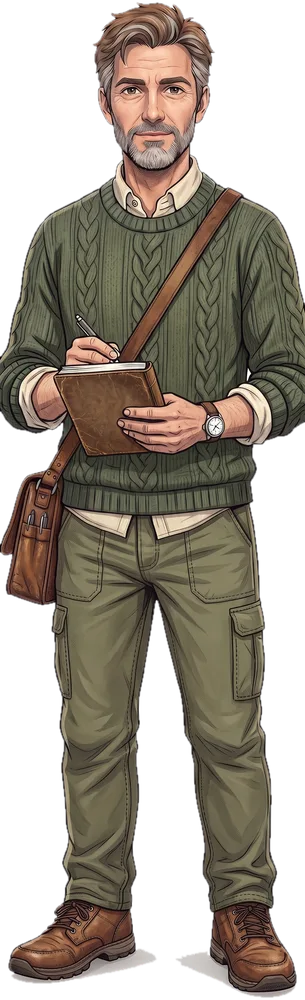
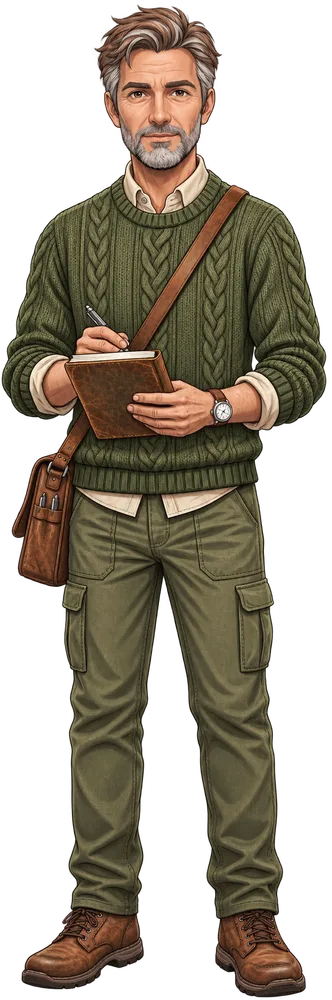
feat(landing): новая фигура Андрея в полный рост

diff --git a/tools/make_fullbody.py b/tools/make_fullbody.py
@@ -12,7 +12,7 @@ SRC = {
     'okulus':    'Детализированный робот с голубым объективом.png',
     'yulia':     'Юля Климова/Рыжеволосая специалистка с планшетом.png',
     'vadim':     'Вадим Северов/Книга 1/Gemini_Generated_Image_vt90e3vt90e3vt90-removebg-preview.png',
-    'andrey':    'Андрей Климов/Gemini_Generated_Image_1lfg651lfg651lfg.jpg',
+    'andrey':    'Андрей Климов/Седовласый мужчина с кожаной сумкой.png',
     'albina':    'Альбина Климова/Gemini_Generated_Image_q2kl23q2kl23q2kl.jpg',
     'panov':     'Майор Панов/Gemini_Generated_Image_ipwgc2ipwgc2ipwg-Photoroom.png',
     'polkovnik': 'Александр Северов/Gemini_Generated_Image_hc6gtmhc6gtmhc6g.jpg',
